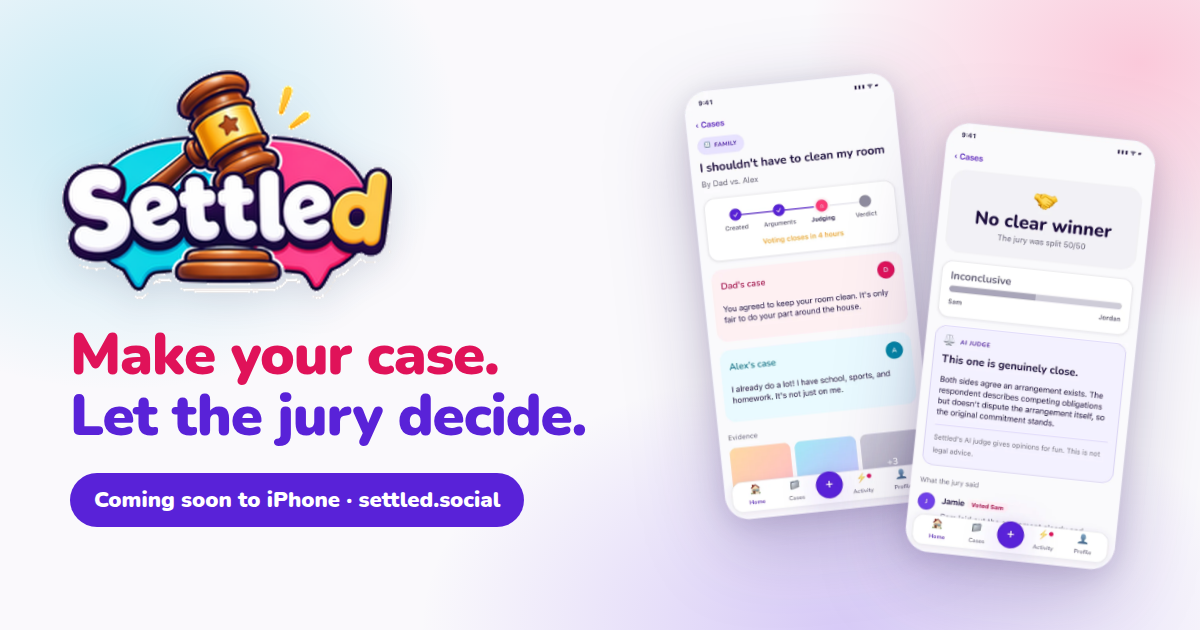
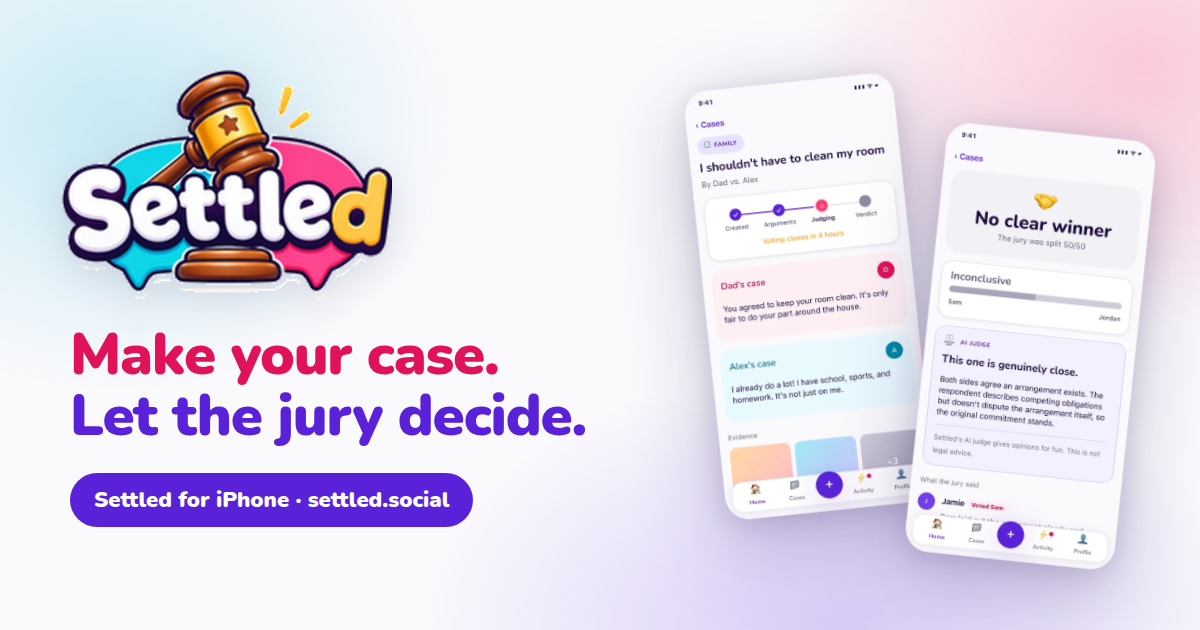
Remove coming-soon and waitlist wording
Apple reviewers flag placeholder 'coming soon' sites. Present the
company and product as they are; waitlist becomes an updates sign-up.

Changed region(s): [[0.0617, 0.754, 0.4625, 0.8444]]

diff --git a/index.html b/index.html
@@ -4,20 +4,20 @@
 <meta charset="utf-8">
 <meta name="viewport" content="width=device-width, initial-scale=1">
 <title>Settled — Make your case. Let the jury decide.</title>
-<meta name="description" content="Settled turns everyday arguments into a quick case your friends can judge. Both sides get equal space, the jury votes, and the verdict is in. Coming soon to iPhone from Sidebar Interactive LLC.">
+<meta name="description" content="Settled turns everyday arguments into a quick case your friends can judge. Both sides get equal space, the jury votes, and the verdict is in. An iPhone app from Sidebar Interactive LLC.">
 <link rel="canonical" href="https://settled.social/">
 <meta name="theme-color" content="#5922D8">
 
 <meta property="og:type" content="website">
 <meta property="og:url" content="https://settled.social/">
 <meta property="og:title" content="Settled — Make your case. Let the jury decide.">
-<meta property="og:description" content="Everyday arguments, settled by a jury of your friends. Coming soon to iPhone.">
+<meta property="og:description" content="Everyday arguments, settled by a jury of your friends. An iPhone app from Sidebar Interactive LLC.">
 <meta property="og:image" content="https://settled.social/assets/og-image.png">
 <meta property="og:image:width" content="1200">
 <meta property="og:image:height" content="630">
 <meta name="twitter:card" content="summary_large_image">
 <meta name="twitter:title" content="Settled — Make your case. Let the jury decide.">
-<meta name="twitter:description" content="Everyday arguments, settled by a jury of your friends. Coming soon to iPhone.">
+<meta name="twitter:description" content="Everyday arguments, settled by a jury of your friends. An iPhone app from Sidebar Interactive LLC.">
 <meta name="twitter:image" content="https://settled.social/assets/og-image.png">
 
 <link rel="icon" type="image/svg+xml" href="/assets/favicon.svg">
@@ -86,7 +86,7 @@ h1,h2,h3{font-family:var(--font-display);letter-spacing:-.015em;line-height:1.1}
 .hero h1 .b{color:var(--violet-600)}
 .lede{font-size:clamp(17px,1.6vw,20px);color:var(--muted);max-width:34ch;margin-bottom:28px}
 
-/* waitlist */
+/* updates signup */
 .signup{display:flex;gap:10px;max-width:470px;background:var(--surface);padding:8px;border-radius:var(--r-full);
   box-shadow:var(--e3);border:1px solid var(--border)}
 .signup input{flex:1;min-width:0;border:0;outline:0;background:transparent;font:inherit;font-size:16px;
@@ -234,11 +234,11 @@ footer{padding:40px 0 56px;color:var(--muted);font-size:14px}
 <header class="hero">
   <div class="wrap">
     <div class="topbar">
-      <span class="pill"><span class="dot" aria-hidden="true"></span>Coming soon to iPhone</span>
+      <span class="pill"><span class="dot" aria-hidden="true"></span>Settled for iPhone</span>
       <nav class="topnav" aria-label="Main">
         <a href="/about/">About</a>
         <a href="/support/">Support</a>
-        <a class="toplink" href="#waitlist">Join the waitlist →</a>
+        <a class="toplink" href="#updates">Get updates →</a>
       </nav>
     </div>
     <div class="hero-grid">
@@ -246,14 +246,14 @@ footer{padding:40px 0 56px;color:var(--muted);font-size:14px}
         <img class="logo" src="/assets/logo.png" width="420" height="292" alt="Settled">
         <h1><span class="a">Make your case.</span><br><span class="b">Let the jury decide.</span></h1>
         <p class="lede">Settled turns everyday arguments into a quick case your friends can judge. Both sides get equal space. The jury votes. Done.</p>
-        <form class="signup js-waitlist" id="waitlist" action="https://formspree.io/f/YOUR_FORM_ID" method="POST" novalidate>
+        <form class="signup js-signup" id="updates" action="https://formspree.io/f/YOUR_FORM_ID" method="POST" novalidate>
           <label for="email1" class="sr" style="position:absolute;left:-9999px">Email address</label>
           <input id="email1" type="email" name="email" placeholder="you@example.com" autocomplete="email" required>
           <input type="hidden" name="source" value="hero">
-          <button class="btn" type="submit">Get early access</button>
+          <button class="btn" type="submit">Get updates</button>
         </form>
         <p class="form-msg" role="status" aria-live="polite"></p>
-        <p class="fineprint">One email when we launch. No spam, ever. <a href="/privacy/">Privacy</a></p>
+        <p class="fineprint">Occasional product news from Settled. No spam, ever. <a href="/privacy/">Privacy</a></p>
       </div>
       <div class="phones" aria-hidden="true">
         <img class="phone p1" src="/assets/screen-home.webp" alt="" width="640" height="1184" loading="eager">
@@ -356,7 +356,7 @@ footer{padding:40px 0 56px;color:var(--muted);font-size:14px}
         <div>
           <p class="eyebrow">Who’s behind Settled</p>
           <h2 class="sec-title">Built by Sidebar Interactive</h2>
-          <p class="sec-lede">Settled is designed, built, and operated by Sidebar Interactive LLC, an independent software company based in California. We’re building the first version of Settled now, and we’d love your feedback along the way.</p>
+          <p class="sec-lede">Settled is designed, built, and operated by Sidebar Interactive LLC, an independent software company based in California. We’d love to hear from you, whether it’s feedback, a partnership idea, or the argument you most want settled.</p>
           <p class="company-links"><a href="/about/">About the company</a><a href="/support/">Support &amp; FAQ</a><a href="/privacy/">Privacy Policy</a><a href="/terms/">Terms of Use</a></p>
         </div>
         <dl class="facts">
@@ -372,10 +372,10 @@ footer{padding:40px 0 56px;color:var(--muted);font-size:14px}
   <section id="join" style="padding-top:10px">
     <div class="wrap">
       <div class="cta center">
-        <p class="eyebrow">Be first in line</p>
+        <p class="eyebrow">Stay in the loop</p>
         <h2 class="sec-title">Got an argument waiting?</h2>
-        <p class="sec-lede">Join the waitlist and we’ll let you know the moment Settled hits the App Store.</p>
-        <form class="signup js-waitlist" action="https://formspree.io/f/YOUR_FORM_ID" method="POST" novalidate>
+        <p class="sec-lede">Sign up for Settled news: new features, App Store availability, and the occasional verdict worth sharing.</p>
+        <form class="signup js-signup" action="https://formspree.io/f/YOUR_FORM_ID" method="POST" novalidate>
           <label for="email2" style="position:absolute;left:-9999px">Email address</label>
           <input id="email2" type="email" name="email" placeholder="you@example.com" autocomplete="email" required>
           <input type="hidden" name="source" value="footer">
@@ -397,14 +397,14 @@ footer{padding:40px 0 56px;color:var(--muted);font-size:14px}
       <a href="/terms/">Terms</a>
       <a href="mailto:hello@settled.social">hello@settled.social</a>
     </nav>
-    <p class="note">Settled is for everyday disagreements and friendly debates. It doesn’t provide legal advice, and verdicts are just for fun. We’ll only use your email to tell you when we launch. See our <a href="/privacy/">Privacy Policy</a>.</p>
+    <p class="note">Settled is for everyday disagreements and friendly debates. It doesn’t provide legal advice, and verdicts are just for fun. We’ll only use your email to send Settled updates. See our <a href="/privacy/">Privacy Policy</a>.</p>
   </div>
 </footer>
 
 <script>
 document.getElementById('yr').textContent = new Date().getFullYear();
 
-document.querySelectorAll('.js-waitlist').forEach(function (form) {
+document.querySelectorAll('.js-signup').forEach(function (form) {
   var msg = form.nextElementSibling;
   var btn = form.querySelector('button');
   var configured = form.action.indexOf('YOUR_FORM_ID') === -1;
@@ -422,8 +422,8 @@ document.querySelectorAll('.js-waitlist').forEach(function (form) {
     // Until a form service is connected, fall back to a pre-filled email.
     if (!configured) {
       window.location.href = 'mailto:hello@settled.social?subject=' +
-        encodeURIComponent('Settled waitlist') + '&body=' +
-        encodeURIComponent('Add me to the Settled waitlist: ' + email);
+        encodeURIComponent('Settled updates') + '&body=' +
+        encodeURIComponent('Please send Settled updates to: ' + email);
       return;
     }
     btn.disabled = true;

diff --git a/privacy/index.html b/privacy/index.html
@@ -46,7 +46,7 @@
   <h2>Information we collect</h2>
   <h3>On this website</h3>
   <ul>
-    <li><strong>Waitlist sign-ups.</strong> If you join the waitlist, we collect your email address so we can tell you when Settled launches.</li>
+    <li><strong>Update sign-ups.</strong> If you sign up for updates, we collect your email address so we can send you Settled news.</li>
     <li><strong>Messages.</strong> If you email us, we receive your email address and whatever you choose to include.</li>
     <li><strong>Technical data.</strong> Our hosting and network providers process standard request data, such as IP address, browser type, and pages requested, to deliver and secure the site. We do not use cookies or analytics on this website.</li>
   </ul>
@@ -64,7 +64,7 @@
   <ul>
     <li>To provide the Services: creating cases, inviting participants and jurors, counting votes, and showing verdicts.</li>
     <li>To keep Settled safe: screening content before it’s posted, reviewing reports, enforcing our <a href="/terms/">Terms of Use</a>, and preventing abuse.</li>
-    <li>To communicate with you, including launch announcements if you joined the waitlist, and responses to your messages.</li>
+    <li>To communicate with you, including product updates if you signed up for them, and responses to your messages.</li>
     <li>To maintain, secure, debug, and improve the Services.</li>
     <li>To comply with legal obligations.</li>
   </ul>
@@ -82,13 +82,13 @@
   </ul>
 
   <h2>Retention</h2>
-  <p>We keep account information and case content for as long as your account is active. When you delete your account, we delete or de-identify your personal information within 30 days, except where we must keep limited records to comply with the law, resolve disputes, or enforce our terms. Waitlist emails are deleted after launch announcements are sent or when you ask us to remove them.</p>
+  <p>We keep account information and case content for as long as your account is active. When you delete your account, we delete or de-identify your personal information within 30 days, except where we must keep limited records to comply with the law, resolve disputes, or enforce our terms. Update sign-up emails are kept until you unsubscribe or ask us to remove them.</p>
 
   <h2>Your choices and rights</h2>
   <ul>
     <li><strong>Delete your account</strong> in the app under Profile, then Settings, then Delete Account, or by emailing us.</li>
     <li><strong>Access or correct</strong> your information by contacting us.</li>
-    <li><strong>Unsubscribe</strong> from waitlist emails by replying to any of them or emailing us.</li>
+    <li><strong>Unsubscribe</strong> from update emails by replying to any of them or emailing us.</li>
     <li><strong>Notifications</strong> can be turned off in your iPhone’s Settings.</li>
   </ul>
   <p><strong>California residents</strong> have the right to know what personal information we collect, use, and disclose; to request deletion or correction; and not to be discriminated against for exercising these rights. We do not sell or share personal information as those terms are defined under California law. To make a request, email <a href="mailto:hello@settled.social?subject=Privacy%20request">hello@settled.social</a>. We may need to verify your identity before acting on a request.</p>

diff --git a/support/index.html b/support/index.html
@@ -37,7 +37,7 @@
 <main class="page">
   <p class="eyebrow">Support</p>
   <h1>How can we help?</h1>
-  <p class="lede">Settled is in development and coming soon to iPhone. If you have a question, need help, or want to report something, we’re here.</p>
+  <p class="lede">Have a question about Settled, need help with your account, or want to report something? We’re here.</p>
 
   <div class="card">
     <h2 style="margin-top:0">Contact us</h2>
@@ -47,8 +47,8 @@
 
   <h2>Frequently asked questions</h2>
   <details>
-    <summary>When does Settled launch?</summary>
-    <p>We’re building the first version now. <a href="/#join">Join the waitlist</a> and we’ll email you once when it’s available on the App Store.</p>
+    <summary>How do I get Settled?</summary>
+    <p>Settled is an iPhone app distributed through the App Store. <a href="/#join">Sign up for updates</a> and we’ll email you when it’s available to download in your region.</p>
   </details>
   <details>
     <summary>How does a case work?</summary>

diff --git a/about/index.html b/about/index.html
@@ -43,7 +43,7 @@
     <dl class="facts">
       <dt>Legal name</dt><dd>Sidebar Interactive LLC</dd>
       <dt>Entity type</dt><dd>Limited liability company, organized in California</dd>
-      <dt>Product</dt><dd>Settled, an iPhone app for resolving everyday disagreements (coming soon)</dd>
+      <dt>Product</dt><dd>Settled, an iPhone app for resolving everyday disagreements</dd>
       <dt>Website</dt><dd><a href="https://settled.social">settled.social</a></dd>
       <dt>Contact</dt><dd><a href="mailto:hello@settled.social">hello@settled.social</a></dd>
     </dl>

diff --git a/README.md b/README.md
@@ -1,4 +1,4 @@
-# settled.social — coming soon page
+# settled.social — website for Settled (Sidebar Interactive LLC)
 
 Static site for GitHub Pages. No build step: `index.html` + `assets/`.
 
@@ -6,11 +6,12 @@ Static site for GitHub Pages. No build step: `index.html` + `assets/`.
 |---|---|
 | `index.html` | The page (styles and script inline) |
 | `404.html` | Branded not-found page |
+| `about/`, `support/`, `privacy/`, `terms/` | Company and legal pages (shared styles in `assets/site.css`) |
 | `CNAME` | Tells GitHub Pages to serve `settled.social` |
 | `.nojekyll` | Skip Jekyll processing |
 | `assets/` | Logo, app screens, favicons, social share image (`og-image.png`, 1200×630) |
 
-## Waitlist form
+## Updates sign-up form
 
 Both email forms post to `https://formspree.io/f/YOUR_FORM_ID`. Until that ID is replaced,
 submitting opens a pre-filled email to hello@settled.social instead, so nothing breaks.
